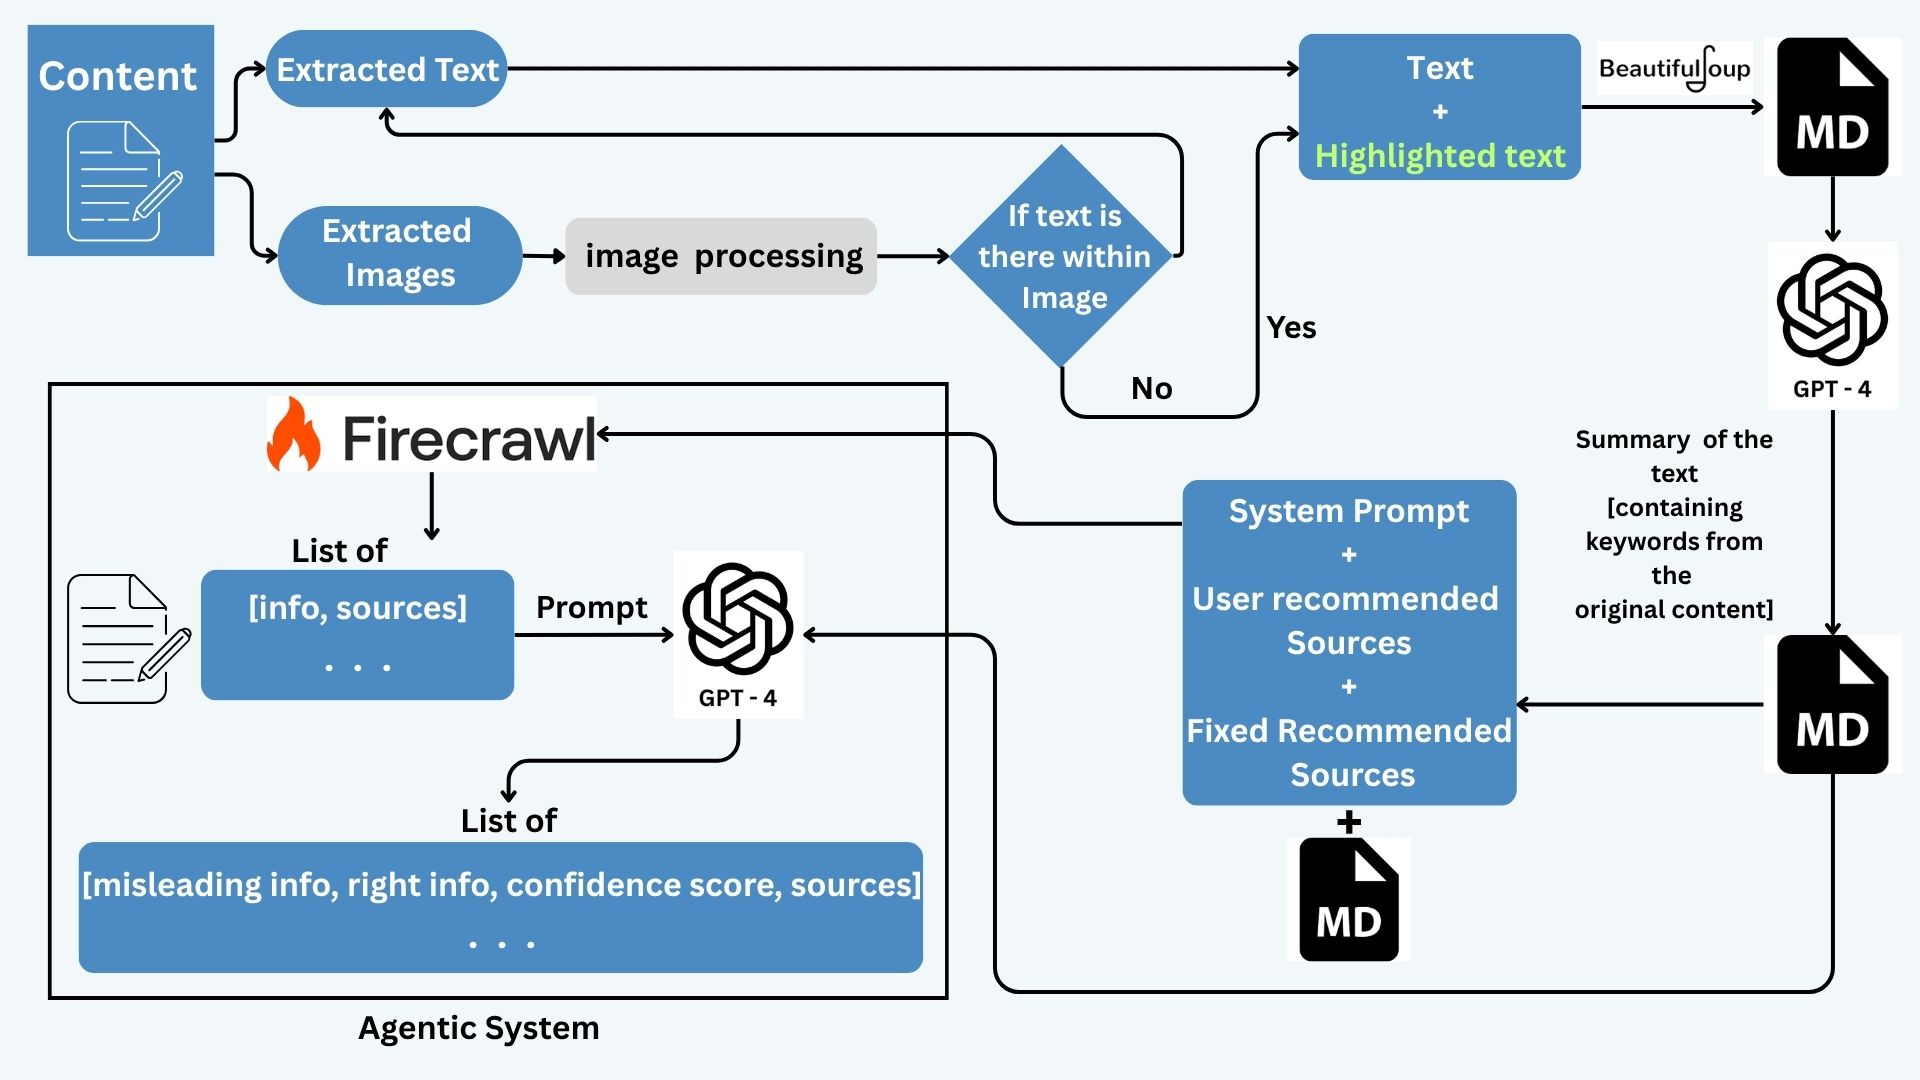
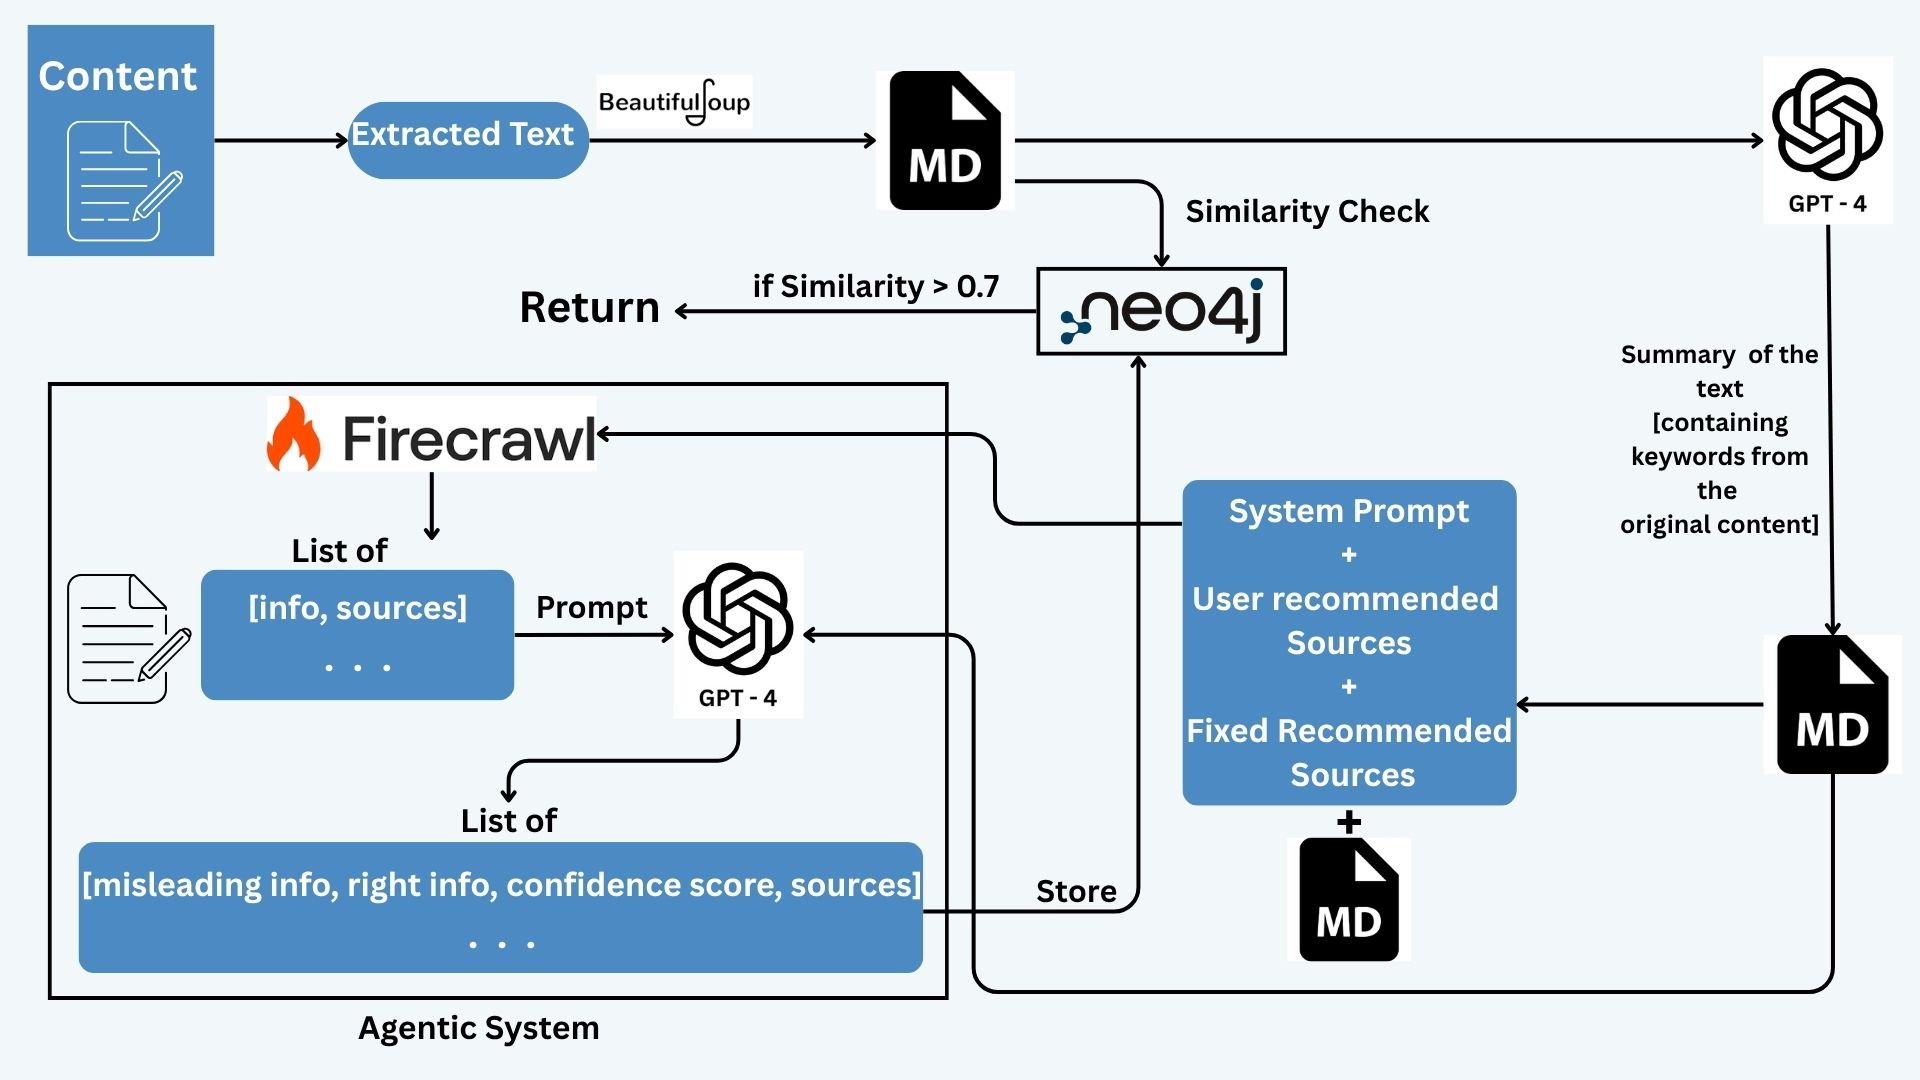
updated

Changed region(s): [[0.125, 0.0, 1.0, 0.5806], [0.5, 0.5806, 0.5938, 0.9167]]

diff --git a/agents/tools/search_tool.py b/agents/tools/search_tool.py
@@ -1,8 +1,9 @@
 import os
 import requests
+import json
 from typing import Optional, List, Dict
 from pydantic import BaseModel
-
+from configs.config import get_settings
 
 class SearchResultItem(BaseModel):
     url: str
@@ -13,31 +14,62 @@ class SearchResults(BaseModel):
     query: str
     results: List[SearchResultItem]
 
-# Get API key from environment
-SEARCH_API_KEY = os.getenv("SERPAPI_API_KEY", "serp-YOUR-API-KEY")
-
 def search_web(query: str, limit: int = 5) -> List[Dict]:
     """
-    Minimal synchronous search wrapper.
-    Replace the requests.get(...) below with SerpAPI, Bing, or your preferred provider.
-    The function returns a list of dicts like {'url','title','snippet'}.
+    Search the web using Serper API.
+    Returns a list of dicts with 'url', 'title', and 'snippet' keys.
     """
-    if not SEARCH_API_KEY or SEARCH_API_KEY.startswith("serp-YOUR"):
-        # No-key fallback: return empty so agent sees search returned nothing.
+    settings = get_settings()
+    api_key = settings.api_keys.serp_api_key.get_secret_value()
+    
+    if not api_key or api_key == "SERP_API_KEY":
+        print("Warning: Serper API key not configured. Returning empty results.")
         return []
-
-    # Example (placeholder) - adapt to your vendor API (SerpAPI/Bing etc.)
-    endpoint = "https://serpapi.example/search.json"  # <- REPLACE
-    params = {"q": query, "api_key": SEARCH_API_KEY, "num": limit}
-    resp = requests.get(endpoint, params=params, timeout=10)
-    resp.raise_for_status()
-    data = resp.json()
-
-    results = []
-    for r in data.get("organic_results", [])[:limit]:
-        url = r.get("link") or r.get("url")
-        title = r.get("title") or r.get("result_title")
-        snippet = r.get("snippet") or r.get("description")
-        if url:
-            results.append({"url": url, "title": title, "snippet": snippet})
-    return results
+    
+    # Serper API endpoint
+    url = "https://google.serper.dev/search"
+    
+    # Request headers
+    headers = {
+        'X-API-KEY': api_key,
+        'Content-Type': 'application/json'
+    }
+    
+    # Request payload
+    payload = {
+        'q': query,
+        'num': min(limit, 10)  # Serper API max is 10
+    }
+    
+    try:
+        # Make the API request
+        response = requests.post(url, headers=headers, data=json.dumps(payload))
+        response.raise_for_status()
+        
+        # Parse the response
+        data = response.json()
+        
+        # Extract search results
+        results = []
+        organic_results = data.get('organic', [])
+        
+        for result in organic_results[:limit]:
+            search_item = {
+                'url': result.get('link', ''),
+                'title': result.get('title', ''),
+                'snippet': result.get('snippet', '')
+            }
+            results.append(search_item)
+        
+        print(f"✅ Serper API search successful: Found {len(results)} results for query: '{query}'")
+        return results
+        
+    except requests.exceptions.RequestException as e:
+        print(f"❌ Serper API request failed: {e}")
+        return []
+    except json.JSONDecodeError as e:
+        print(f"❌ Failed to parse Serper API response: {e}")
+        return []
+    except Exception as e:
+        print(f"❌ Unexpected error during search: {e}")
+        return []

diff --git a/configs/config.py b/configs/config.py
@@ -1,17 +1,73 @@
 from pydantic import SecretStr
 from pydantic_settings import BaseSettings
 from typing import Optional
+import json
+import os
+from pathlib import Path
+
+def load_secrets_from_json(secrets_file: str = "secrets.json") -> dict:
+    """Load secrets from a JSON file."""
+    # Try multiple possible locations for the secrets file
+    possible_paths = [
+        Path(secrets_file),  # Current directory
+        Path(__file__).parent.parent / secrets_file,  # Project root
+        Path(__file__).parent / secrets_file,  # Config directory
+    ]
+    
+    for path in possible_paths:
+        if path.exists():
+            try:
+                with open(path, 'r') as f:
+                    return json.load(f)
+            except (json.JSONDecodeError, IOError) as e:
+                print(f"Warning: Could not load secrets from {path}: {e}")
+                continue
+    
+    print(f"Warning: secrets.json not found in any of the expected locations: {[str(p) for p in possible_paths]}")
+    print("Falling back to environment variables and default values.")
+    return {}
+
+# Load secrets once at module level
+_secrets = load_secrets_from_json()
 
 class DatabaseSettings(BaseSettings):
     postgres_connection_string: SecretStr = SecretStr(
+        _secrets.get("database", {}).get("postgres_connection_string") or 
+        os.getenv("POSTGRES_CONNECTION_STRING") or
         "postgres://c5aad4745edc63bc01070e97e14bbb69badcd888da110a96b7213046edf6b217:sk_peCkTuV4RZCiBbx-HULlS@db.prisma.io:5432/postgres?sslmode=require"
     )
 
+class APIKeys(BaseSettings):
+    
+    openai_api_key: SecretStr = SecretStr(
+        _secrets.get("api_keys", {}).get("openai_api_key") or
+        os.getenv("OPENAI_API_KEY") or
+        "OPEN_AI_KEY"
+    )
+    serp_api_key: SecretStr = SecretStr(
+        _secrets.get("api_keys", {}).get("serp_api_key") or
+        os.getenv("SERP_API_KEY") or
+        "SERP_API_KEY"
+    )
+    firecrawl_api_key: SecretStr = SecretStr(
+        _secrets.get("api_keys", {}).get("firecrawl_api_key") or
+        os.getenv("FIRECRAWL_API_KEY") or
+        "FIRECRAWL_API_KEY"
+    )
+
 class Neo4jSettings(BaseSettings):
-    uri: str = "bolt://localhost:7687"
-    username: str = "neo4j"
-    password: str = "password"
-    database: str = "neo4j"
+    uri: str = (_secrets.get("neo4j", {}).get("uri") or 
+                os.getenv("NEO4J_URI") or 
+                "bolt://localhost:7687")
+    username: str = (_secrets.get("neo4j", {}).get("username") or 
+                     os.getenv("NEO4J_USERNAME") or 
+                     "neo4j")
+    password: str = (_secrets.get("neo4j", {}).get("password") or 
+                     os.getenv("NEO4J_PASSWORD") or 
+                     "password")
+    database: str = (_secrets.get("neo4j", {}).get("database") or 
+                     os.getenv("NEO4J_DATABASE") or 
+                     "neo4j")
 
 class AppConfig(BaseSettings):
     project_name: str = "Claim Radar Application"
@@ -23,7 +79,7 @@ class Settings(BaseSettings):
     database: DatabaseSettings = DatabaseSettings()
     neo4j: Neo4jSettings = Neo4jSettings()
     app_config: AppConfig = AppConfig()
-    
+    api_keys: APIKeys = APIKeys()
     # Add other settings as needed
     app_name: str = "Claim Radar Application"
     debug: bool = False

diff --git a/test_serper.py b/test_serper.py
@@ -1,0 +1,88 @@
+#!/usr/bin/env python3
+"""
+Test script to demonstrate Serper API usage
+"""
+
+import sys
+from pathlib import Path
+
+# Add the project root to Python path
+current_dir = Path(__file__).parent
+sys.path.insert(0, str(current_dir))
+
+from agents.tools.search_tool import search_web, SearchResults, SearchResultItem
+
+def test_serper_api():
+    """Test the Serper API implementation"""
+    print("🔍 Testing Serper API Integration")
+    print("=" * 50)
+    
+    # Test queries
+    test_queries = [
+        "COVID-19 vaccine effectiveness 2024",
+        "Ukraine war latest news",
+        "climate change temperature rise"
+    ]
+    
+    for query in test_queries:
+        print(f"\n🔎 Searching for: '{query}'")
+        print("-" * 30)
+        
+        try:
+            # Perform search
+            results = search_web(query, limit=3)
+            
+            if results:
+                print(f"✅ Found {len(results)} results:")
+                for i, result in enumerate(results, 1):
+                    print(f"\n{i}. {result.get('title', 'No title')}")
+                    print(f"   URL: {result.get('url', 'No URL')}")
+                    print(f"   Snippet: {result.get('snippet', 'No snippet')[:100]}...")
+            else:
+                print("❌ No results found")
+                
+        except Exception as e:
+            print(f"❌ Error during search: {e}")
+    
+    print("\n" + "=" * 50)
+    print("Test completed!")
+
+def test_search_results_class():
+    """Test the SearchResults class usage"""
+    print("\n🧪 Testing SearchResults Class")
+    print("=" * 50)
+    
+    # Create sample search results
+    sample_results = [
+        SearchResultItem(
+            url="https://example.com/article1",
+            title="Sample Article 1",
+            snippet="This is a sample snippet for testing purposes."
+        ),
+        SearchResultItem(
+            url="https://example.com/article2", 
+            title="Sample Article 2",
+            snippet="Another sample snippet for demonstration."
+        )
+    ]
+    
+    # Create SearchResults object
+    search_results = SearchResults(
+        query="test query",
+        results=sample_results
+    )
+    
+    print(f"Query: {search_results.query}")
+    print(f"Number of results: {len(search_results.results)}")
+    
+    for i, result in enumerate(search_results.results, 1):
+        print(f"\n{i}. {result.title}")
+        print(f"   URL: {result.url}")
+        print(f"   Snippet: {result.snippet}")
+
+if __name__ == "__main__":
+    # Test the SearchResults class first
+    test_search_results_class()
+    
+    # Test the actual Serper API
+    test_serper_api()

diff --git a/agents/core_agent.py b/agents/core_agent.py
@@ -13,7 +13,7 @@ from pydantic_ai.providers.openai import OpenAIProvider
 from agents.tools.webcrawl_tool import fetch_site, SiteDoc
 from agents.tools.search_tool import search_web, SearchResultItem, SearchResults
 from services.neo4j_service import neo4j_service, VerificationResult
-
+from models.base import get_model
 # Add the parent directory to the Python path to allow imports from agent_output
 current_dir = Path(__file__).parent
 parent_dir = current_dir.parent
@@ -21,14 +21,8 @@ sys.path.insert(0, str(parent_dir))
 
 from agents.schema.output import FinalAgentOutput
 
-load_dotenv()
-model = OpenAIModel(
-    "agentic-large",
-    provider=OpenAIProvider(
-        base_url="https://api.theagentic.ai/v1", 
-        api_key='20WsbU31U3eeo9b8cA2ioICnt0PfCdlw'
-    ),
-)
+model, model_settings = get_model()
+
 
 @dataclass
 class Claim_radar_Deps:
@@ -36,8 +30,9 @@ class Claim_radar_Deps:
    
 
 class Claimradar_agent:
-    def __init__(self, model = model):
+    def __init__(self, model = model, m = model_settings):
         self.model = model
+        self.m = m
 
 
     def _read_markdown_file(self, file_path: str) -> str:
@@ -54,7 +49,8 @@ class Claimradar_agent:
             model=self.model,
             system_prompt= system_prompt,
             deps_type = Claim_radar_Deps,
-            output_type=FinalAgentOutput 
+            output_type=FinalAgentOutput,
+            model_settings = self.m
         )
         @agent.tool
         def fetch_site_tool(url: str) -> SiteDoc:

diff --git a/models/base.py b/models/base.py
@@ -5,17 +5,17 @@ from dotenv import load_dotenv
 from pydantic_ai.models.openai import OpenAIModel
 from pydantic_ai.providers.openai import OpenAIProvider
 from pydantic_ai.settings import ModelSettings
-
-
-
+from configs.config import get_settings
 
 # Individual getter functions
 def _get_openai_model() -> Tuple[OpenAIModel, Optional[ModelSettings]]:
     """Returns OpenAI model and its settings."""
+    load_dotenv()
+    settings = get_settings()
     openai_model = OpenAIModel(
         model_name="gpt-4.1-mini",
         provider=OpenAIProvider(
-            api_key="OPEN_AI_KEY",
+            api_key=settings.api_keys.openai_api_key.get_secret_value(),
         )
     )
     openai_model_settings = ModelSettings(

diff --git a/agents/tools/webcrawl_tool.py b/agents/tools/webcrawl_tool.py
@@ -1,7 +1,7 @@
 import os
 from typing import Optional, Dict, Any
 from pydantic import BaseModel
-
+from configs.config import get_settings
 try:
     from firecrawl import FirecrawlApp
 except ImportError:
@@ -22,7 +22,7 @@ class SiteDoc(BaseModel):
 # 2) Firecrawl client initialization
 def _get_firecrawl_client():
     """Initialize Firecrawl client with fallback for different package versions"""
-    api_key = os.environ.get("FIRECRAWL_API_KEY", "your-firecrawl-key")
+    api_key = get_settings().api_keys.firecrawl_api_key.get_secret_value()
     
     if FirecrawlApp is not None:
         return FirecrawlApp(api_key=api_key)

diff --git a/README.md b/README.md
@@ -1,1 +1,5 @@
-Comming soon
+create .venv
+run `pip install -r requirements.txt`
+place secrets.json
+install neo4js dekstop in your computer
+
